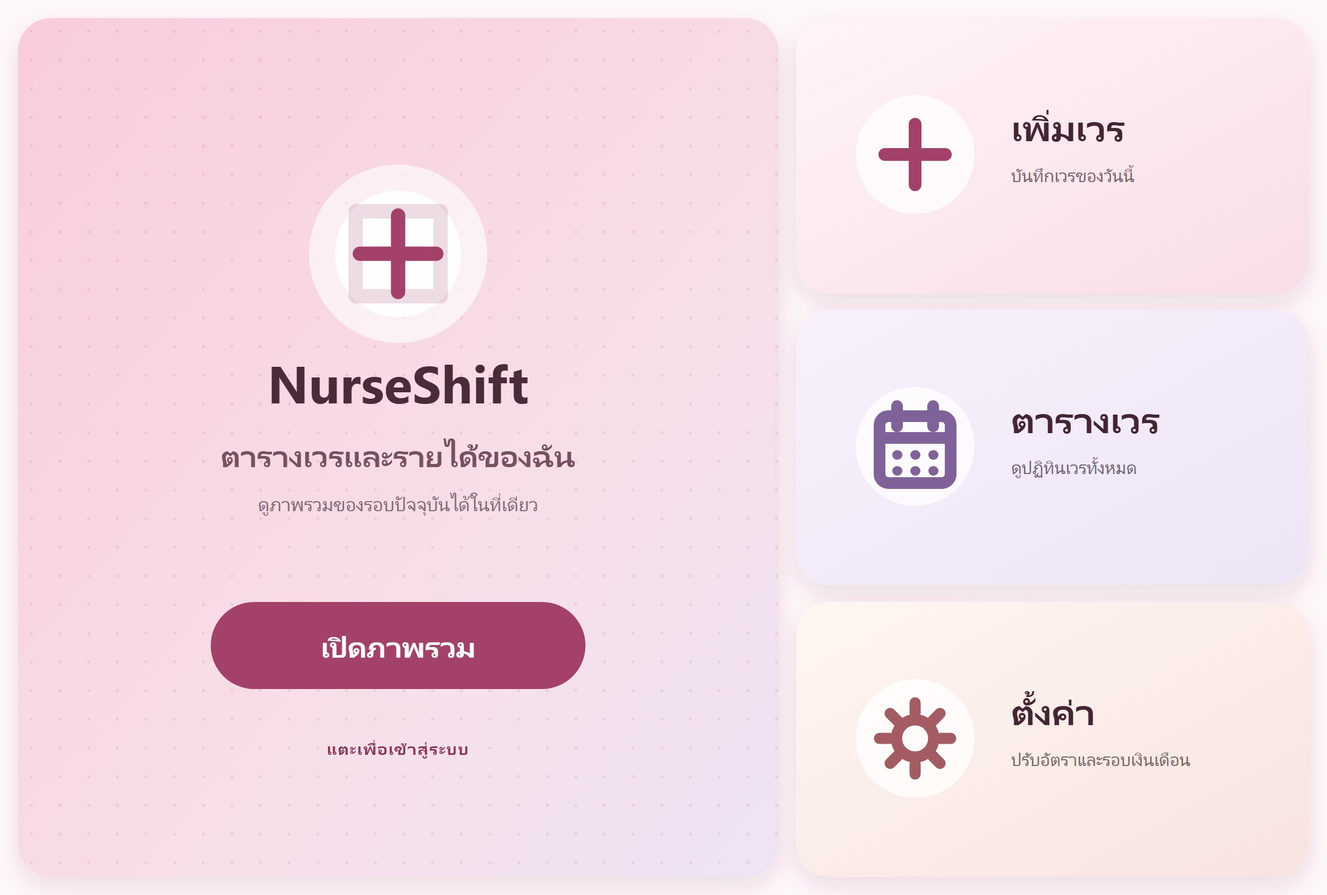
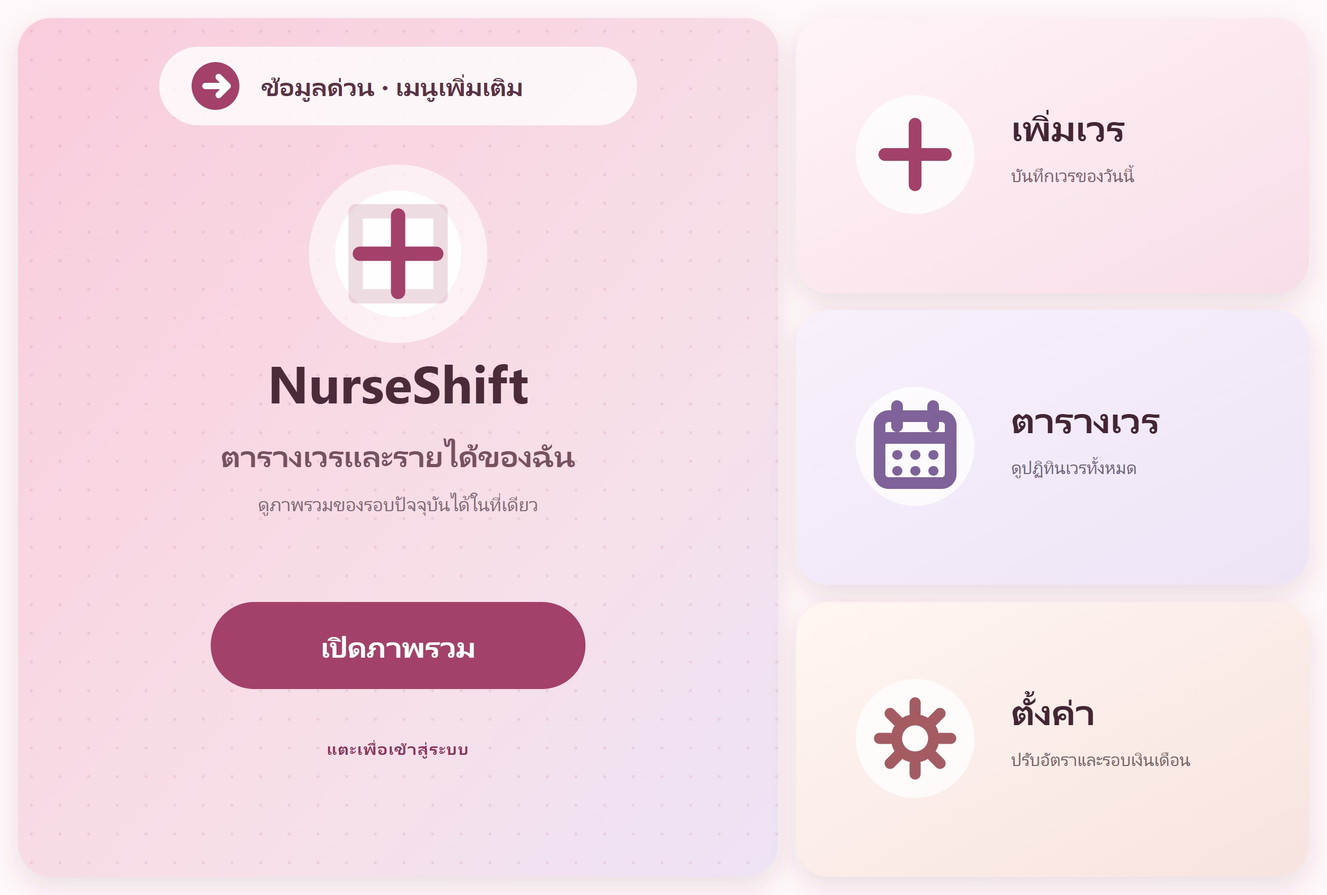
phase 4 enable rich menu navigation

Changed region(s): [[0.1248, 0.0308, 0.4992, 0.1542]]

diff --git a/docs/PHASE4_LINE_SETUP.md b/docs/PHASE4_LINE_SETUP.md
@@ -1,83 +1,213 @@
-# Phase 4 — LINE Rich Menu Page 2 และ LINE Bot
+# Phase 4 — LINE Rich Menu Page 2 + LINE Bot
 
-เอกสารนี้เป็นขั้นตอนเตรียม deployment เท่านั้น การเพิ่ม Rich Menu, Alias, Webhook, Migration หรือ Edge Function ใน Production ต้องได้รับอนุญาตก่อนเสมอ
+อัปเดตแผน: 16 ตุลาคม 2026
 
-## แนวทาง Navigation ที่เลือก
+สถานะ: **ติดตั้งบน Production แล้ว / รอผู้ใช้ยืนยันการสลับเมนูจาก LINE จริง**
 
-Rich Menu หน้าแรกมีพื้นที่ใช้งานครบทั้ง 4 ส่วน จึงไม่แก้ภาพหรือ action เดิมตาม requirement
+เอกสารนี้เป็นแผนดำเนินงาน Phase 4 โดยเฉพาะ การเปลี่ยน Rich Menu, Alias, Webhook, Supabase Secrets หรือ Edge Function บน Production ต้องได้รับอนุญาตก่อนเริ่มขั้นตอนนั้น
 
-- ผู้ใช้พิมพ์ `เมนูเพิ่มเติม` ในแชตส่วนตัวเพื่อให้ Bot ผูก Rich Menu หน้า 2 กับบัญชี LINE คนนั้น
-- หน้า 2 มีปุ่ม `กลับหน้าหลัก` ซึ่งใช้ `richmenuswitch` ไปยัง alias `nurseshift-main`
-- สร้าง alias `nurseshift-quick-info` ไว้สำหรับหน้า 2 โดยไม่เปลี่ยน Default Rich Menu
+## Production Deployment Record
 
-## ไฟล์ที่พร้อมใช้
+| รายการ | ค่า ณ 16 ตุลาคม 2026 |
+|---|---|
+| Webhook endpoint | `https://wcfpubbeyihhukrsuing.supabase.co/functions/v1/line-webhook` |
+| Webhook status | Active, LINE Verify HTTP 200 |
+| หน้าแรกเดิมสำหรับ rollback | `richmenu-19a7913a5836af90c7dd597e80379ee5` |
+| หน้าแรก v2 (Default) | `richmenu-7dadf4b044f7246010355b8d377b50cd` |
+| หน้า 2 | `richmenu-36fe0d0e5c16dc83404652f6606b0f7d` |
+| Main alias | `nurseshift-main` → หน้าแรก v2 |
+| Quick-info alias | `nurseshift-quick-info` → หน้า 2 |
 
-- `assets/line-rich-menu-page-2.png` — ภาพ PNG ขนาด 2500×1686 และต่ำกว่า 1 MB
-- `assets/line-rich-menu-page-2.svg` — source สำหรับแก้ไขภายหลัง
-- `docs/line-rich-menu-page-2.json` — Rich Menu areas และ actions
-- `supabase/functions/line-webhook/index.ts` — LINE webhook
-- `supabase/migrations/202610150005_line_webhook_events.sql` — idempotency log และ atomic claim
+หน้าแรกเดิมยังไม่ถูกลบและใช้ rollback ได้ทันที
 
-## Secrets ของ Supabase Edge Function
+## Objective
 
-ตั้งค่าผ่าน Supabase Secrets เท่านั้น ห้ามใส่ใน frontend หรือ commit ค่าจริงลง Git
+เพิ่ม Rich Menu หน้า 2 และ LINE Bot สำหรับเรียกดูข้อมูล NurseShift อย่างรวดเร็ว โดย:
+
+- Rich Menu หน้าแรกยังคง 4 actions เดิม และเพิ่มปุ่ม `ข้อมูลด่วน · เมนูเพิ่มเติม` ตามการอนุมัติของผู้ใช้
+- ผู้ใช้แตะปุ่มบนหน้าแรกเพื่อสลับไปหน้า 2 ได้ทันที และยังพิมพ์ `เมนูเพิ่มเติม` เป็นทางเลือกสำรองได้
+- หน้า 2 แสดงข้อมูลจริงของผู้ใช้ที่เชื่อมบัญชี LINE แล้ว
+- ข้อมูลรายได้ตอบเฉพาะแชตส่วนตัว
+- ทุก Webhook ต้องตรวจ LINE signature และป้องกัน event ซ้ำ
+
+## Scope
+
+อยู่ใน Phase 4:
+
+1. ตรวจสถานะ Messaging API, Webhook, Rich Menu หน้าแรก และ alias แบบ read-only
+2. เตรียมและตรวจ Rich Menu หน้า 2 จำนวน 6 ฟังก์ชัน
+3. Deploy `line-webhook` หลังได้รับอนุญาต
+4. ตั้งค่า secrets ที่จำเป็นใน Supabase Edge Functions
+5. สร้าง Rich Menu หน้า 2, หน้าแรก v2 และ aliases โดยคง 4 actions เดิมไว้
+6. เชื่อม Webhook URL และทดสอบด้วยบัญชีควบคุม
+7. บันทึกหลักฐานการตรวจรับและวิธี rollback
+
+ไม่อยู่ใน Phase 4:
+
+- ลบหรือเปลี่ยนพฤติกรรมของ 4 actions เดิมบนหน้าแรก
+- เปลี่ยนสูตรเงินเดือน, OT, ค่าเวร หรือช่วงข้อมูลย้อนหลัง
+- เปิด Notification Scheduling V2 หรือแก้ Cron
+- เปิด Automatic Data Deletion
+- รัน Browser E2E; ใช้ Unit/Contract tests และ controlled LINE smoke test ตามคำสั่งล่าสุด
+
+## Repository Audit
+
+ไฟล์ที่มีและพร้อมใช้:
+
+| รายการ | ไฟล์ | สถานะ |
+|---|---|---|
+| ภาพ Rich Menu หน้า 2 | `assets/line-rich-menu-page-2.png` | พร้อมอัปโหลด, 2500×1686, 363,627 bytes |
+| ภาพ Rich Menu หน้าแรก v2 | `assets/line-rich-menu.jpg` | เพิ่มแถบสลับไปหน้า 2 และอัปโหลดแล้ว |
+| Source ภาพ | `assets/line-rich-menu-page-2.svg` | พร้อมแก้ไขภายหลัง |
+| Rich Menu areas/actions | `docs/line-rich-menu-page-2.json` | พร้อม, มี 6 postbacks และ 1 ปุ่มกลับหน้าหลัก |
+| LINE Webhook | `supabase/functions/line-webhook/index.ts` | พร้อมสำหรับ controlled deployment |
+| Duplicate-event protection | `supabase/migrations/202610150005_line_webhook_events.sql` | มี migration แล้ว; ต้องตรวจสถานะ remote ก่อนดำเนินการ |
+| Unit/Contract tests | `tests/line-bot.test.mjs` | มี coverage สำหรับ bot/config |
+| Supabase function config | `supabase/config.toml` | `line-webhook.verify_jwt = false` ตามการยืนยันด้วย LINE signature |
+
+Webhook รองรับ actions ต่อไปนี้:
+
+1. `next_shift` — เวรถัดไป
+2. `monthly_income` — รายได้เดือนนี้
+3. `ot_summary` — สรุป OT
+4. `day_off` — วันหยุดเดือนนี้
+5. `monthly_shifts` — สรุปเวรเดือนนี้
+6. `help` — วิธีใช้งาน
+
+## Navigation ที่เลือก
+
+- ผู้ใช้แตะ `ข้อมูลด่วน · เมนูเพิ่มเติม` บนหน้าแรก หรือพิมพ์ `เมนูเพิ่มเติม` ในแชตส่วนตัว
+- Bot ผูก Rich Menu หน้า 2 ให้ LINE user คนนั้น
+- หน้า 2 ใช้ alias `nurseshift-quick-info`
+- ปุ่ม `กลับหน้าหลัก` ใช้ `richmenuswitch` ไป alias `nurseshift-main`
+- Default Rich Menu ไม่ถูกเปลี่ยน
+
+แนวทางนี้รักษา 4 actions เดิมทั้งหมด และเพิ่มพื้นที่สลับหน้าในส่วนว่างด้านบนของการ์ดภาพรวม
+
+## Prerequisites และข้อมูลที่ต้องยืนยัน
+
+ก่อน Production change ต้องตรวจรายการต่อไปนี้โดยไม่แสดงค่าความลับใน log หรือเอกสาร:
+
+| รายการ | ต้องใช้ | วิธีตรวจ |
+|---|---|---|
+| Messaging API Channel secret | ใช่ | ตรวจว่ามี Supabase secret `LINE_MESSAGING_CHANNEL_SECRET` |
+| Channel access token | ใช่ | ตรวจว่ามี `LINE_CHANNEL_ACCESS_TOKEN` และ token ยังใช้งานได้ |
+| LIFF URL | ใช่ | ใช้ `https://liff.line.me/2012030979-CQQzGFWo` และตั้ง `LINE_LIFF_URL` |
+| Rich Menu หน้าแรก ID | ใช่ | อ่านจาก LINE API ก่อนสร้าง alias `nurseshift-main` |
+| Rich Menu หน้า 2 ID | สร้างระหว่าง rollout | ตั้งเป็น `LINE_RICH_MENU_PAGE_2_ID` หลังสร้างสำเร็จ |
+| Webhook endpoint | ใช่ | `https://wcfpubbeyihhukrsuing.supabase.co/functions/v1/line-webhook` |
+| Bot friendship | ใช่ | บัญชีทดสอบต้องเพิ่ม Official Account เป็นเพื่อน |
+
+ห้ามใส่ Channel secret หรือ access token ใน frontend, `.env.local` ที่ถูก bundle ไป browser, เอกสาร หรือ Git
+
+## Execution Plan
+
+### Step 4.1 — Read-only Production Audit
+
+1. อ่าน Messaging API status และ Webhook URL ปัจจุบัน
+2. สำรองค่า Rich Menu หน้าแรก: ID, JSON areas, image reference, alias และสถานะ Default
+3. ตรวจว่า alias `nurseshift-main` และ `nurseshift-quick-info` มีอยู่แล้วหรือไม่
+4. ตรวจเฉพาะรายชื่อ Supabase secrets ที่จำเป็น โดยไม่อ่านหรือพิมพ์ค่าจริง
+5. ตรวจว่า migration `202610150005` และ `line-webhook` ถูก deploy แล้วหรือยัง
+6. บันทึกผล audit และหยุดหากพบ endpoint/Rich Menu เดิมที่อาจชนกับระบบอื่น
+
+ผลลัพธ์: current-state inventory และ rollback baseline
+
+### Step 4.2 — Local Verification
+
+1. ตรวจ JSON schema และ bounds ของ Rich Menu หน้า 2
+2. รัน Unit/Contract tests สำหรับ signature, privacy, idempotency, Flex payload และ page-1 preservation
+3. รัน production build เพื่อจับ import/type/bundle errors
+4. ไม่รัน Browser E2E
+
+ผลลัพธ์: test report ที่ไม่มี Production mutation
+
+### Step 4.3 — Backend Preparation
+
+ดำเนินการเมื่อได้รับอนุญาต Production เท่านั้น:
+
+1. Apply migration `202610150005_line_webhook_events.sql` เฉพาะเมื่อ remote ยังไม่มี
+2. ตั้งหรือยืนยัน secrets:
 
 ```text
-LINE_MESSAGING_CHANNEL_SECRET=<Channel secret จาก Messaging API>
-LINE_CHANNEL_ACCESS_TOKEN=<Channel access token จาก Messaging API>
+LINE_MESSAGING_CHANNEL_SECRET=<Messaging API Channel secret>
+LINE_CHANNEL_ACCESS_TOKEN=<Messaging API Channel access token>
 LINE_LIFF_URL=https://liff.line.me/2012030979-CQQzGFWo
-LINE_RICH_MENU_PAGE_2_ID=<กำหนดหลังสร้าง Rich Menu หน้า 2>
 ```
 
-`SUPABASE_URL` และ service-role secret เป็น environment ที่ Supabase จัดให้ Edge Function อยู่แล้ว ระบบรองรับรูปแบบ secret เดิมของโปรเจกต์ด้วย
+3. Deploy `line-webhook` โดยไม่ใช้ Supabase JWT verification เพราะ Function ตรวจ `x-line-signature` จาก raw body
+4. ตรวจ health response และยืนยันว่า invalid signature ได้ HTTP 401
 
-## ลำดับ Deployment หลังได้รับอนุญาต
+ผลลัพธ์: backend พร้อมรับ LINE events แต่ยังไม่เปิด Use webhook
 
-1. สำรอง Rich Menu ID, areas, aliases และ Default Rich Menu ปัจจุบันจาก LINE Console/API
-2. Apply migration `202610150005_line_webhook_events.sql`
-3. Deploy Edge Function `line-webhook` โดยปิด Supabase JWT verification ตาม `supabase/config.toml` เพราะ webhook ใช้ LINE signature แทน
-4. ตั้ง secrets ด้านบน
-5. สร้าง Rich Menu จาก `docs/line-rich-menu-page-2.json` แล้วอัปโหลด PNG
-6. สร้าง alias `nurseshift-main` ให้ชี้ Rich Menu หน้าแรกเดิม และ `nurseshift-quick-info` ให้ชี้หน้า 2
-7. นำ Rich Menu ID หน้า 2 ไปตั้งเป็น `LINE_RICH_MENU_PAGE_2_ID`
-8. ตั้ง Webhook URL เป็น `https://<PROJECT_REF>.supabase.co/functions/v1/line-webhook`
-9. กด Verify ใน LINE Developers แล้วเปิด Use webhook
-10. ทดสอบกับบัญชีควบคุมก่อน โดยยังไม่เปลี่ยน Default Rich Menu
+### Step 4.4 — Rich Menu Navigation
 
-## API Payload สำหรับ Alias
+1. สร้าง Rich Menu หน้า 2 จาก `docs/line-rich-menu-page-2.json` และอัปโหลดภาพหน้า 2
+2. สร้าง Rich Menu หน้าแรก v2 จาก `docs/line-rich-menu.json` และอัปโหลด `assets/line-rich-menu.jpg`
+3. เก็บ Rich Menu ID หน้า 2 แล้วตั้ง `LINE_RICH_MENU_PAGE_2_ID`
+4. สร้างหรือ update alias แบบ idempotent:
+   - `nurseshift-main` → Rich Menu หน้าแรก v2
+   - `nurseshift-quick-info` → Rich Menu หน้า 2
+5. ตั้งหน้าแรก v2 เป็น Default Rich Menu และเก็บหน้าแรกเดิมไว้สำหรับ rollback
 
-ส่งไปที่ `POST https://api.line.me/v2/bot/richmenu/alias` พร้อม Messaging API access token
+ผลลัพธ์: ผู้ใช้แตะสลับหน้า 1 ↔ หน้า 2 ได้ โดย 4 actions เดิมยังทำงาน
 
-```json
-{
-  "richMenuAliasId": "nurseshift-main",
-  "richMenuId": "<EXISTING_MAIN_RICH_MENU_ID>"
-}
-```
+### Step 4.5 — Webhook Cutover แบบควบคุม
 
-```json
-{
-  "richMenuAliasId": "nurseshift-quick-info",
-  "richMenuId": "<NEW_PAGE_2_RICH_MENU_ID>"
-}
-```
+1. ตั้ง Webhook URL เป็น `https://wcfpubbeyihhukrsuing.supabase.co/functions/v1/line-webhook`
+2. กด Verify ใน LINE Developers
+3. เปิด Use webhook เมื่อ Verify ผ่านเท่านั้น
+4. ทดสอบกับบัญชีควบคุมหนึ่งบัญชีก่อน
+5. ตรวจ Edge Function logs เฉพาะช่วงทดสอบ และยืนยันว่าไม่มี event loop หรือ reply ซ้ำ
 
-หาก alias มีอยู่แล้วให้ใช้ endpoint update ของ LINE แทนการสร้างซ้ำ
+ผลลัพธ์: LINE Bot รับ event จริงโดยยังไม่เปลี่ยน Default Rich Menu
 
-## Checklist ทดสอบแบบควบคุม
+### Step 4.6 — Controlled Smoke Test
 
-- Rich Menu หน้าแรกและ 4 actions เดิมไม่เปลี่ยน
-- พิมพ์ `เมนูเพิ่มเติม` แล้วเห็นหน้า 2
-- ปุ่มกลับหน้าหลักสลับกลับได้
-- Postback ทั้ง 6 รายการตอบเพียงครั้งเดียว
-- รายได้เดือนนี้ตอบเฉพาะแชตส่วนตัว
-- ผู้ใช้ที่ยังไม่เชื่อม NurseShift ได้ข้อความให้เปิด LIFF
-- เวรถัดไป, วันหยุด, OT และรายได้ตรงกับข้อมูล Supabase ของผู้กด
-- LINE Verify ผ่านและ invalid signature ได้ HTTP 401
+ทดสอบผ่านแชตส่วนตัว:
+
+1. หน้าแรกและ 4 actions เดิมยังทำงาน
+2. แตะ `ข้อมูลด่วน · เมนูเพิ่มเติม` แล้วสลับไปหน้า 2
+3. ปุ่ม `กลับหน้าหลัก` กลับหน้าแรกได้
+4. กด postback ทั้ง 6 ปุ่มและได้รับคำตอบเพียงครั้งเดียว
+5. เวรถัดไป, วันหยุด, OT, รายได้ และสรุปเวรตรงกับข้อมูล Supabase ของผู้ทดสอบ
+6. รายได้ไม่ตอบใน group chat
+7. ผู้ใช้ที่ยังไม่เชื่อม NurseShift ได้ข้อความให้เปิด LIFF
+8. ส่ง event ID ซ้ำในการทดสอบ contract แล้วประมวลผลเพียงครั้งเดียว
+
+ผลลัพธ์: evidence checklist พร้อมเวลา, test account และผลแต่ละกรณี โดยไม่เก็บข้อมูลเงินเดือนจริงลงเอกสาร
+
+### Step 4.7 — Closeout
+
+1. บันทึก Rich Menu IDs, aliases และ Webhook status โดยไม่บันทึก secrets
+2. อัปเดตสถานะ Phase 4 ใน `docs/IMPLEMENTATION_PLAN.md`
+3. สรุป test evidence, ปัญหาคงค้าง และ rollback readiness
+4. หยุดรอคำสั่งก่อนเริ่ม Phase 5 หรือเปลี่ยน Production ส่วนอื่น
+
+## Acceptance Criteria
+
+- Rich Menu หน้าแรกมีปุ่มสลับหน้า และ 4 actions เดิมยังทำงานเหมือนเดิม
+- ผู้ใช้เปิดหน้า 2 และกลับหน้าแรกได้
+- ทั้ง 6 postbacks ใช้ข้อมูลจริงของผู้ใช้ที่ผ่าน authorization
+- รายได้ตอบเฉพาะแชตส่วนตัว
+- LINE signature ที่ไม่ถูกต้องถูกปฏิเสธด้วย HTTP 401
+- event เดิมไม่ถูกประมวลผลซ้ำ
+- ผู้ใช้ที่ไม่เชื่อมบัญชีได้รับทางเข้า LIFF โดยไม่เห็นข้อมูลผู้อื่น
+- Unit/Contract tests และ production build ผ่าน
+- Controlled LINE smoke test ผ่านโดยไม่มีข้อความซ้ำหรือ request loop
+- มี baseline และขั้นตอน rollback ก่อนเปิด Use webhook
 
 ## Rollback
 
-- ยกเลิกการผูก Rich Menu หน้า 2 จากผู้ใช้ทดสอบ แล้วผูก Rich Menu หน้าแรกเดิมกลับ
-- ปิด Use webhook หรือคืน Webhook URL เดิม หากระบบเดิมใช้ endpoint อื่น
-- ไม่ต้องลบหน้าแรกหรือเปลี่ยน Default Rich Menu
-- Migration เป็นแบบเพิ่มอย่างเดียว ตาราง event log สามารถคงไว้ได้โดยไม่กระทบแอปเดิม
+หากทดสอบไม่ผ่าน:
+
+1. ปิด Use webhook หรือคืน Webhook URL เดิม
+2. ยกเลิกการผูก Rich Menu หน้า 2 จากบัญชีทดสอบ และผูกหน้าแรกเดิมกลับ
+3. คืน Default Rich Menu และ alias `nurseshift-main` ไปยัง Rich Menu ID เดิมที่สำรองไว้
+4. ลบ alias/page 2 ใหม่ได้เมื่อยืนยันว่าไม่มีผู้ใช้ถูกผูกอยู่
+5. คง migration แบบ additive ไว้ได้ เพราะไม่เปลี่ยนข้อมูลตารางเวรหรือการเงิน
+6. ห้ามลบ Rich Menu หน้าแรก
+
+## Phase 4 Gate
+
+Production rollout เสร็จแล้ว: Webhook active, LINE Verify ผ่าน, หน้าแรก v2 เป็น Default และ aliases เชื่อมสองทิศทาง เหลือ controlled smoke test จาก LINE client ของผู้ใช้เพื่อยืนยันการสลับหน้าและคำตอบทั้ง 6 รายการ ก่อนปิด Phase 4

diff --git a/docs/IMPLEMENTATION_PLAN.md b/docs/IMPLEMENTATION_PLAN.md
@@ -285,7 +285,7 @@ Planned tasks:
 7. Add tests proving evening/night premiums remain unchanged.
 8. Add API validation, authorization and migration tests if the data model changes.
 
-Implementation result (15 October 2026):
+Implementation result (16 October 2026):
 
 - Confirmed `standardHours` remains user-configurable with a default of 176.
 - Added independent `specialOtItems` with date, integer hours and optional note.
@@ -397,7 +397,7 @@ Gate: stop and report before Phase 3.
 
 ### Phase 3 — Historical Data (Current Month + Previous 2 Months)
 
-Status: **Completed locally — Not deployed**
+Status: **Deployed — Controlled LINE smoke test pending**
 
 Dependencies: Phase 1 calculations and Phase 2 Day Off model.
 
@@ -476,26 +476,25 @@ Planned tasks:
 
 Implementation result (15 October 2026):
 
-- Preserved the existing page-1 image, four actions and default-menu configuration without modification.
-- Selected the non-destructive `เมนูเพิ่มเติม` chat command as the page-2 entry point because page 1 has no unused action area.
+- Preserved all four original page-1 actions and added an approved `ข้อมูลด่วน · เมนูเพิ่มเติม` switch in unused space above the overview area.
+- Retained the `เมนูเพิ่มเติม` chat command as a fallback entry point to page 2.
 - Added a pastel-pink 2500×1686 page-2 SVG and upload-ready PNG under 1 MB, with six postbacks and a `richmenuswitch` return action.
 - Added a dedicated LINE webhook Edge Function that verifies `x-line-signature` against the raw request body before parsing JSON.
 - Added LINE-user-to-profile authorization, per-user queries, private-chat protection for monthly income and generic unlinked-account handling.
 - Added six Flex Message responses using real Supabase data for next shift, current-month income, OT, Day Off, shift counts and help.
 - Reused the confirmed monthly payroll rules in a tested shared bot module: configurable standard hours defaulting to 176, overlap de-duplication and immediate Special OT.
 - Added an additive webhook-event table and atomic claim function for duplicate-event protection and bounded stale/failed retry.
-- Added setup, alias, controlled verification and rollback instructions without changing LINE or Supabase production configuration.
+- Added setup, alias, controlled verification and rollback instructions; Production rollout was later authorized and completed.
 
 Verification result:
 
-- Unit/security/contract tests: 28 passed, 0 failed, including signature verification, privacy, formula parity, Flex structure and page-1 preservation.
-- Mobile Chrome E2E regression: 3 passed, 0 failed.
+- Full Unit/Contract run: 69 passed, 0 failed, including signature verification, privacy, Flex structure and reciprocal Rich Menu switches.
+- Browser E2E was not run per the latest user instruction.
 - Vite production build: passed.
-- Supabase migration dry-run: passed; migrations 003, 004 and 005 remain pending and were not applied.
-- Deno CLI is not installed locally, so live Edge Function boot/type validation remains part of controlled deployment verification.
-- Rich Menu, aliases, webhook URL, secrets, migration and Edge Function were not deployed or changed in Production.
+- Migration `202610150005` is applied on Production and `line-webhook` is active with JWT verification disabled in favor of LINE signature verification.
+- Migration, Edge Function, secrets, webhook URL, Rich Menu page 2, reciprocal aliases and the page-1 v2 default menu are deployed. LINE endpoint verification returns HTTP 200 and webhook usage is active.
 
-Likely affected files after approval:
+Affected files:
 
 - New Rich Menu page-2 asset/configuration in `assets/` and `docs/`
 - New or extended Supabase Edge Function for webhook handling
@@ -505,12 +504,12 @@ Likely affected files after approval:
 
 Acceptance criteria:
 
-- Page 1 remains unchanged and functional.
+- All four original Page 1 actions remain functional and the approved page switch is present.
 - Page 2 and navigation work using the approved approach.
 - All six postbacks return authorized real data.
 - Signature, privacy and duplicate-processing tests pass.
 
-Gate: do not upload/switch production Rich Menus; stop and report before Phase 5.
+Gate: obtain the user's controlled LINE-client confirmation before marking Phase 4 complete.
 
 ### Phase 5 — Notification Scheduling V2
 
@@ -674,7 +673,7 @@ Gate: produce the final readiness report; deployment remains a separate user-app
 | 1. Shift & OT Business Logic | Committed and pushed; not deployed | Deployment approval remains separate | 13 unit tests, 1 mobile E2E, build and migration dry-run passed |
 | 2. Calendar + Bulk + Day Off | Committed and pushed; not deployed | Deployment approval remains separate | 17 unit tests, 2 mobile E2E, build and migration dry-run passed |
 | 3. Historical Data | Completed locally; not deployed | Deployment approval remains separate | 22 unit tests, 3 mobile E2E and build passed |
-| 4. Rich Menu Page 2 + Bot | Completed locally; not deployed | Controlled LINE verification and deployment approval | 28 unit/security tests, 3 mobile E2E, build and migration dry-run passed |
+| 4. Rich Menu Page 2 + Bot | Deployed; controlled user smoke test pending | User confirmation of page switching and bot responses | Unit/Contract tests, build, LINE endpoint verification and rollback menu |
 | 5. Notification Scheduling V2 | Implemented locally in Shadow Mode; not deployed | Controlled DB/LINE verification and production approval | Unit/contract verification, dry-run, metrics and rollback |
 | 6. Expiration Notifications | Implemented locally; deletion disabled; not deployed | Controlled Phase 5 Shadow verification | Unit/contract verification, dry-run evidence and no-delete proof |
 | 7. Performance + Regression | Completed locally; Production verification pending; not deployed | Deployment and controlled smoke-test approval | Measurements, Unit/Contract regression and readiness report |
